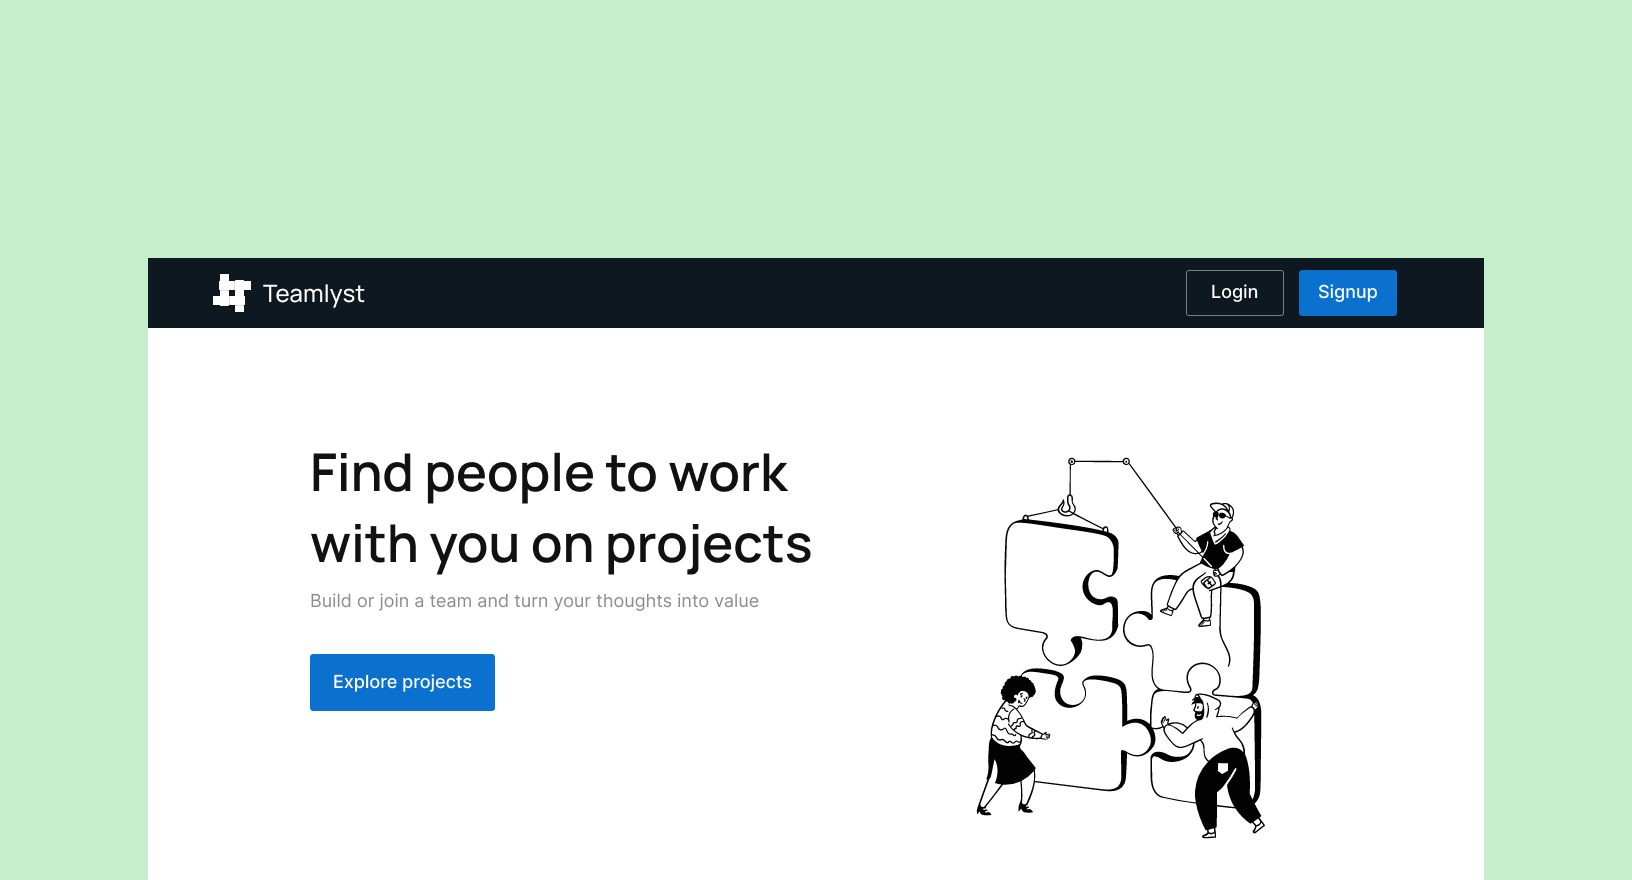
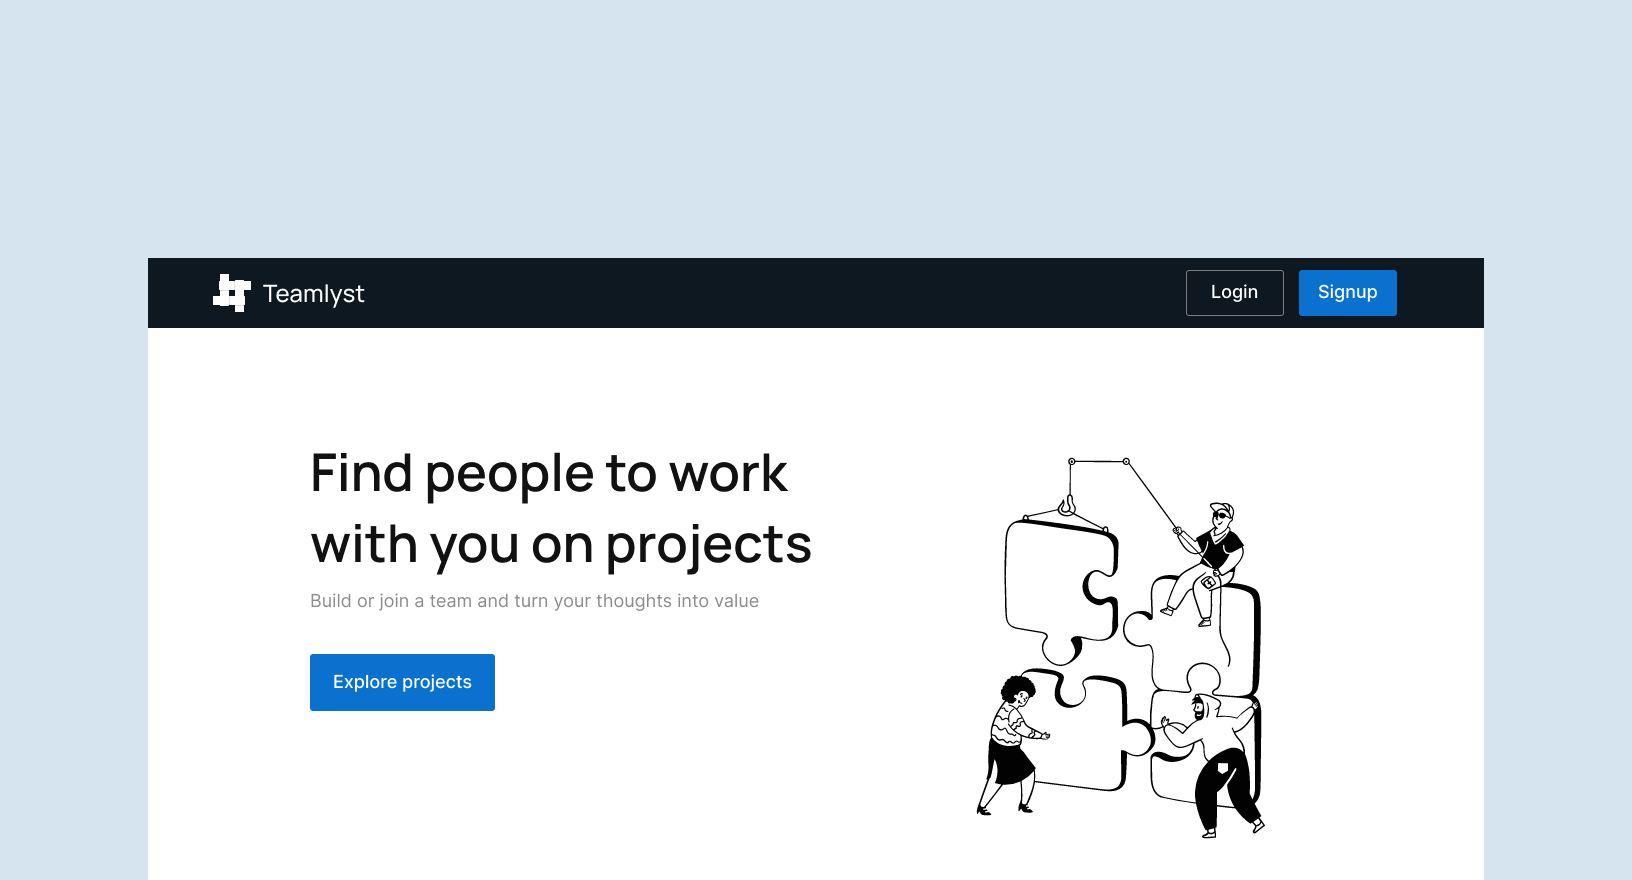
made some changes

diff --git a/teamlyst.html b/teamlyst.html
@@ -15,7 +15,7 @@
     <meta charset="UTF-8">
     <meta http-equiv="X-UA-Compatible" content="IE=edge">
     <meta name="viewport" content="width=device-width, initial-scale=1.0">
-    <title>Document</title>
+    <title>Teamlyst - Kavidhasan</title>
     <link rel="shortcut icon" href="./favicon.ico" type="image/x-icon">
     <link rel="stylesheet" href="teamlyst.css">
 
@@ -66,7 +66,7 @@
             </p>
         </div>
 
-        <img src="./images/work11.png" alt="">
+        <img src="./images/work22.png" alt="">
 
         <br>
         <br>
@@ -77,16 +77,19 @@
 
 
             <div class="row">
-                <p class="row-text-head">Story behind the freelance
+                <p class="row-text-head">Story behind Teamlyst
                 </p>
                 <div class="row-para">
-                    <p>I was a club member in a startup aggregator where I started to network with the
-                        other people in the club. Thats when I got opportunity to do freelance for a cloth manufacturing
-                        company.
+                    <p>
+                        During 2nd year of my college, I wanted to build a website. I had some knowledge in frontend
+                        development and no idea about the backend. I started looking for a person who can help me 
+                        in developing backend for the website.
                     </p>
-                    <p>They managed their inventory using Microsoft Excel, which made their process more time-consuming.
-                        They had to switch
-                        between so many Excel sheets to get the job done.
+                    <p>
+                        Luckily, I found a guy who can help me in developing backend for the website and he was from my class.
+                        One day, I was discussing with him the problem I had in finding someone to work with me. That's when the 
+                        question in us raised "Why don't we work on this?".
+                        Finally, we teamed up again for building Teamlyst.
                     </p>
 
 
@@ -95,34 +98,82 @@
             </div>
 
 
-
             <div class="row">
-                <p class="row-text">These screenshots were taken with their permission.</p>
-                <br>
-                <div class="image">
-                    <img src="./images/jjp-excel.png" alt="">
-
-                </div>
-
-            </div>
-
-            <div class="row">
-                <p class="row-text-head">My role</p>
+                <p class="row-text-head">Between this</p>
                 <div class="row-para">
-                    <p>They had a plan to build a web application for managing their inventory. They asked me to
-                        <span>design interfaces</span> for the
-                        web application.
+                    <p>
+                        I was responsible for conducting user reseach, designing interfaces, and frontend development.
+                    </p>
+            
+            
+                </div>
+            
+            </div>
+
+
+
+
+            <div class="row">
+            <p class="row-text-head">What about others?🤔</p>
+            <div class="row-para">
+                <p>
+                    The discussion showed that we were facing the same issue. I wanted to know if other students face the
+                    same problem. This led me to conduct a research. I started conducting quantitative analysis using Google Forms.
+                </p>
+            
+                <p>I almost went to all the dormotories in my hostel to conduct qualitative analysis. I had casual conservation with the 
+                    students and this helped me to understand their problem.
+                </p>
+            
+            
+            </div>
+            
+            </div>
+
+
+            <div class="row">
+                <p class="row-text-head">Insights</p>
+                <div class="row-para">
+                    <p>
+                        
                     </p>
 
-                    <p>I was responsible for designing the interfaces and also put in mind to <span>reduce the
-                            time-consuming parts</span> they faced when
-                        using Excel sheets.
-                    </p>
+                    <ol>
+                        <li>Many individuals gave up their ideas without working on them if there was no support.</li>
+                        <li>Many individuals who possessed some level of expertise in a particular area, but lacked an opportunity to
+                        showcase their abilities.</li>
+                        <li>There is no direct way to find teammates to work on projects.</li>
+                        <li>There is no direct way to find teammates to work on projects.</li>
+                    </ol>
+            
+            
+                </div>
+            
+            </div>
+            
+            
 
+
+            <div class="row">
+                <p class="row-text-head image">User Persona</p>
+                
+                <div class="image">
+                    <img src="./images/Teamlyst - userflow.jpg" alt="">
 
                 </div>
 
             </div>
+            
+            <div class="row">
+                <p class="row-text-head image">Userflow</p>
+                
+                <div class="image">
+                    <img src="./images/Teamlyst - userflow.jpg" alt="">
+
+                </div>
+
+            </div>
+            
 
 
 

diff --git a/jnjp.html b/jnjp.html
@@ -15,7 +15,7 @@
     <meta charset="UTF-8">
     <meta http-equiv="X-UA-Compatible" content="IE=edge">
     <meta name="viewport" content="width=device-width, initial-scale=1.0">
-    <title>Document</title>
+    <title>PIM - Kavidhasan</title>
     <link rel="shortcut icon" href="./favicon.ico" type="image/x-icon">
     <link rel="stylesheet" href="jnjp.css">
 

diff --git a/teamlyst.css b/teamlyst.css
@@ -8,7 +8,7 @@ html {
 }
 
 body {
-    background-color: #22152b;
+    background-color: #15202b;
     color: rgb(253, 253, 253);
     font-family: 'fav', sans-serif;
 }
@@ -175,6 +175,11 @@ p.ques {
     font-family: 'Inter', sans-serif;
     font-size: 25px;
     font-weight: 700;
+}
+
+.row-text-head.image{
+    margin-top: 0%;
+
 }
 
 .row .image {
